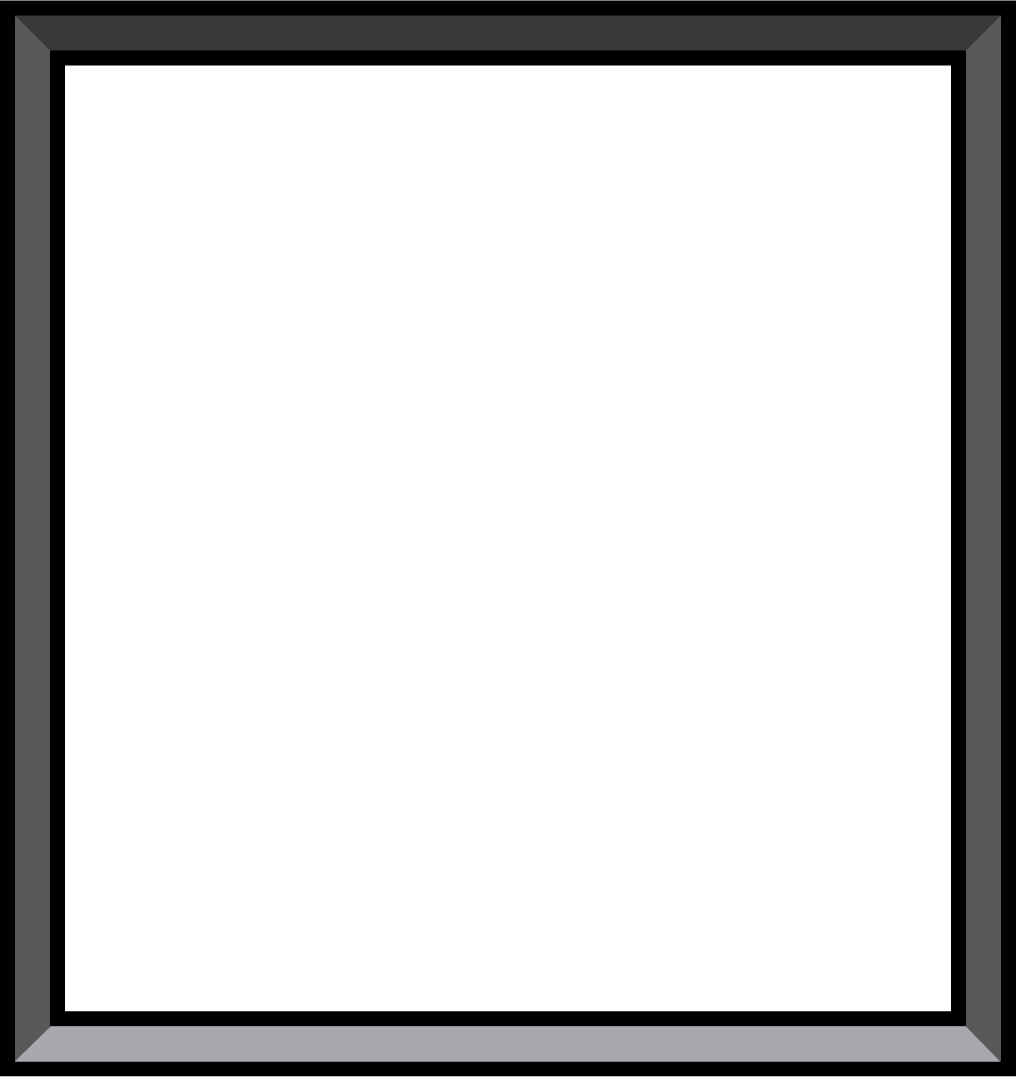
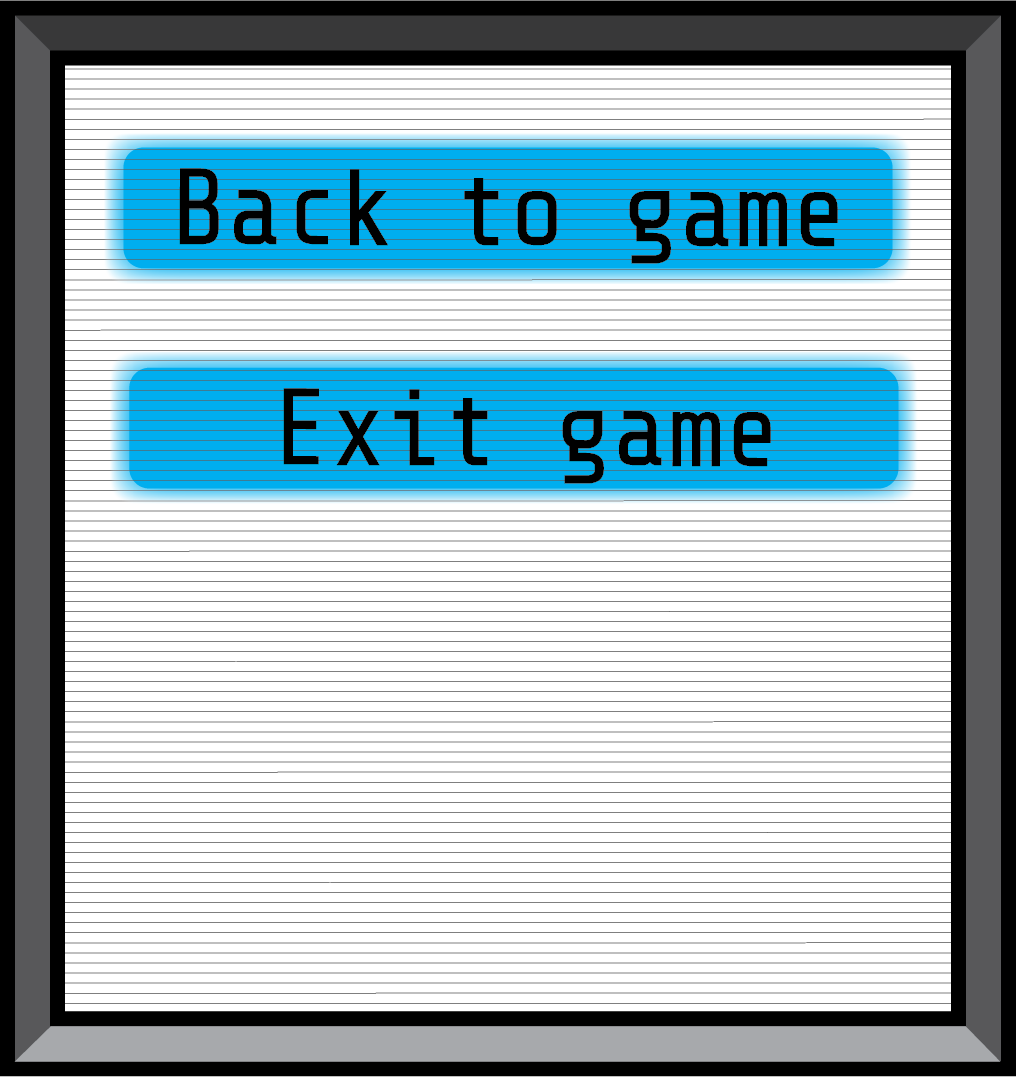
added menu stuff

Changed region(s): [[0.061, 0.0613, 0.9459, 0.5515], [0.061, 0.6128, 0.9459, 0.766], [0.061, 0.8273, 0.9459, 0.9192]]

diff --git a/Assets/Scripts/UIHandler.cs b/Assets/Scripts/UIHandler.cs
@@ -30,6 +30,8 @@ public class UIHandler : MonoBehaviour
         warningBar = uiDocument.rootVisualElement.Q<VisualElement>("warningBar");
         pauseMenu = uiDocument.rootVisualElement.Q<VisualElement>("pause");
         warningBar.style.opacity = 0f;
+        pauseMenu.style.transitionDuration = new List<TimeValue> { new TimeValue(0.25f, TimeUnit.Second) };
+        pauseMenu.style.top = Length.Percent(110);
 
     }
 
@@ -45,7 +47,7 @@ public class UIHandler : MonoBehaviour
         {
             lastEscapePress = Time.unscaledTime;
             escapeClicked = !escapeClicked;
-            pauseMenu.style.top = escapeClicked ? Length.Percent(-10) : Length.Percent(110);
+            pauseMenu.style.top = escapeClicked ? Length.Percent(0) : Length.Percent(110);
         }
     }
 
